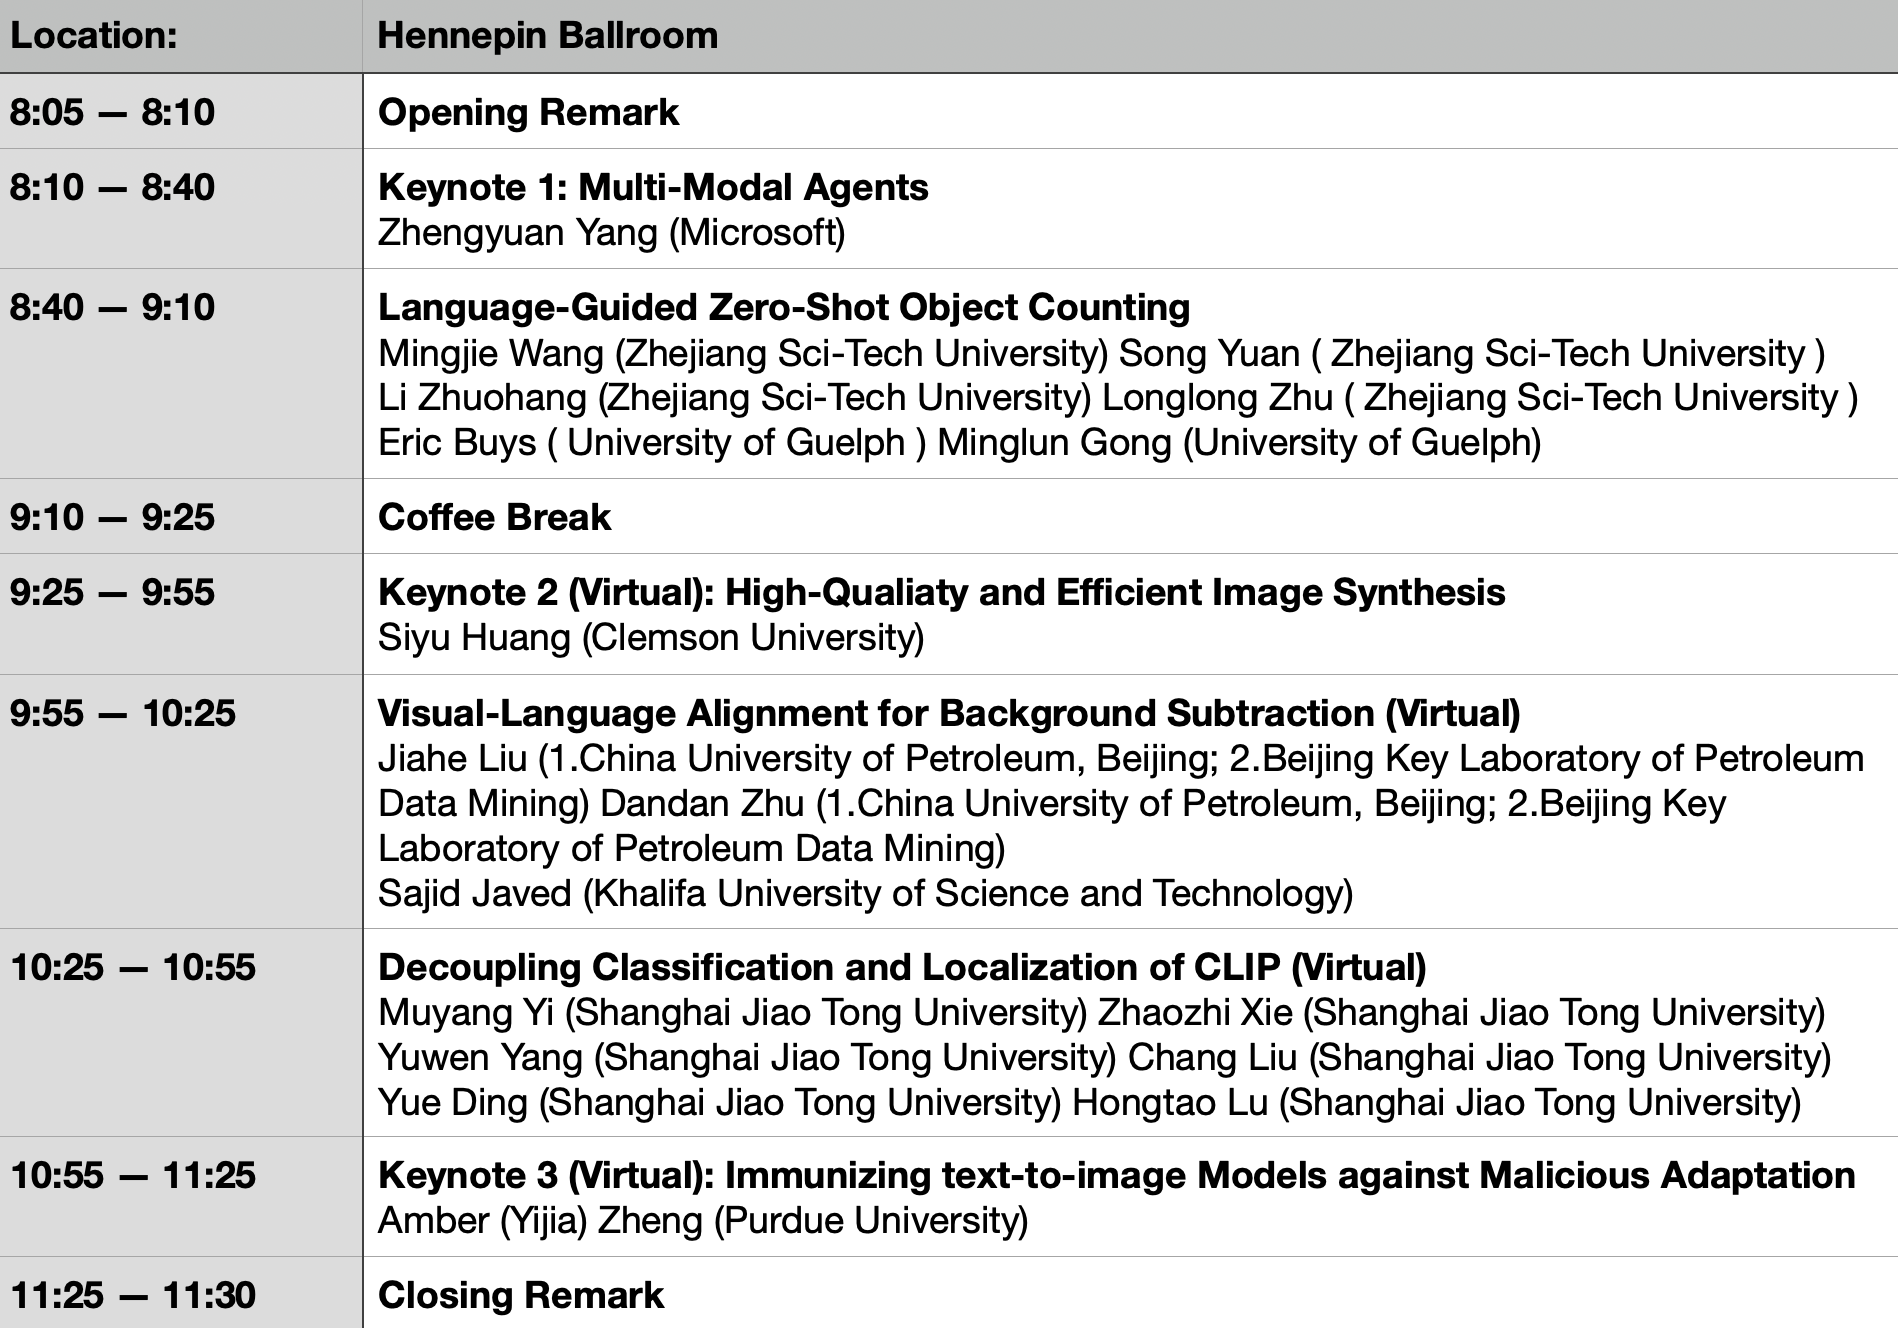
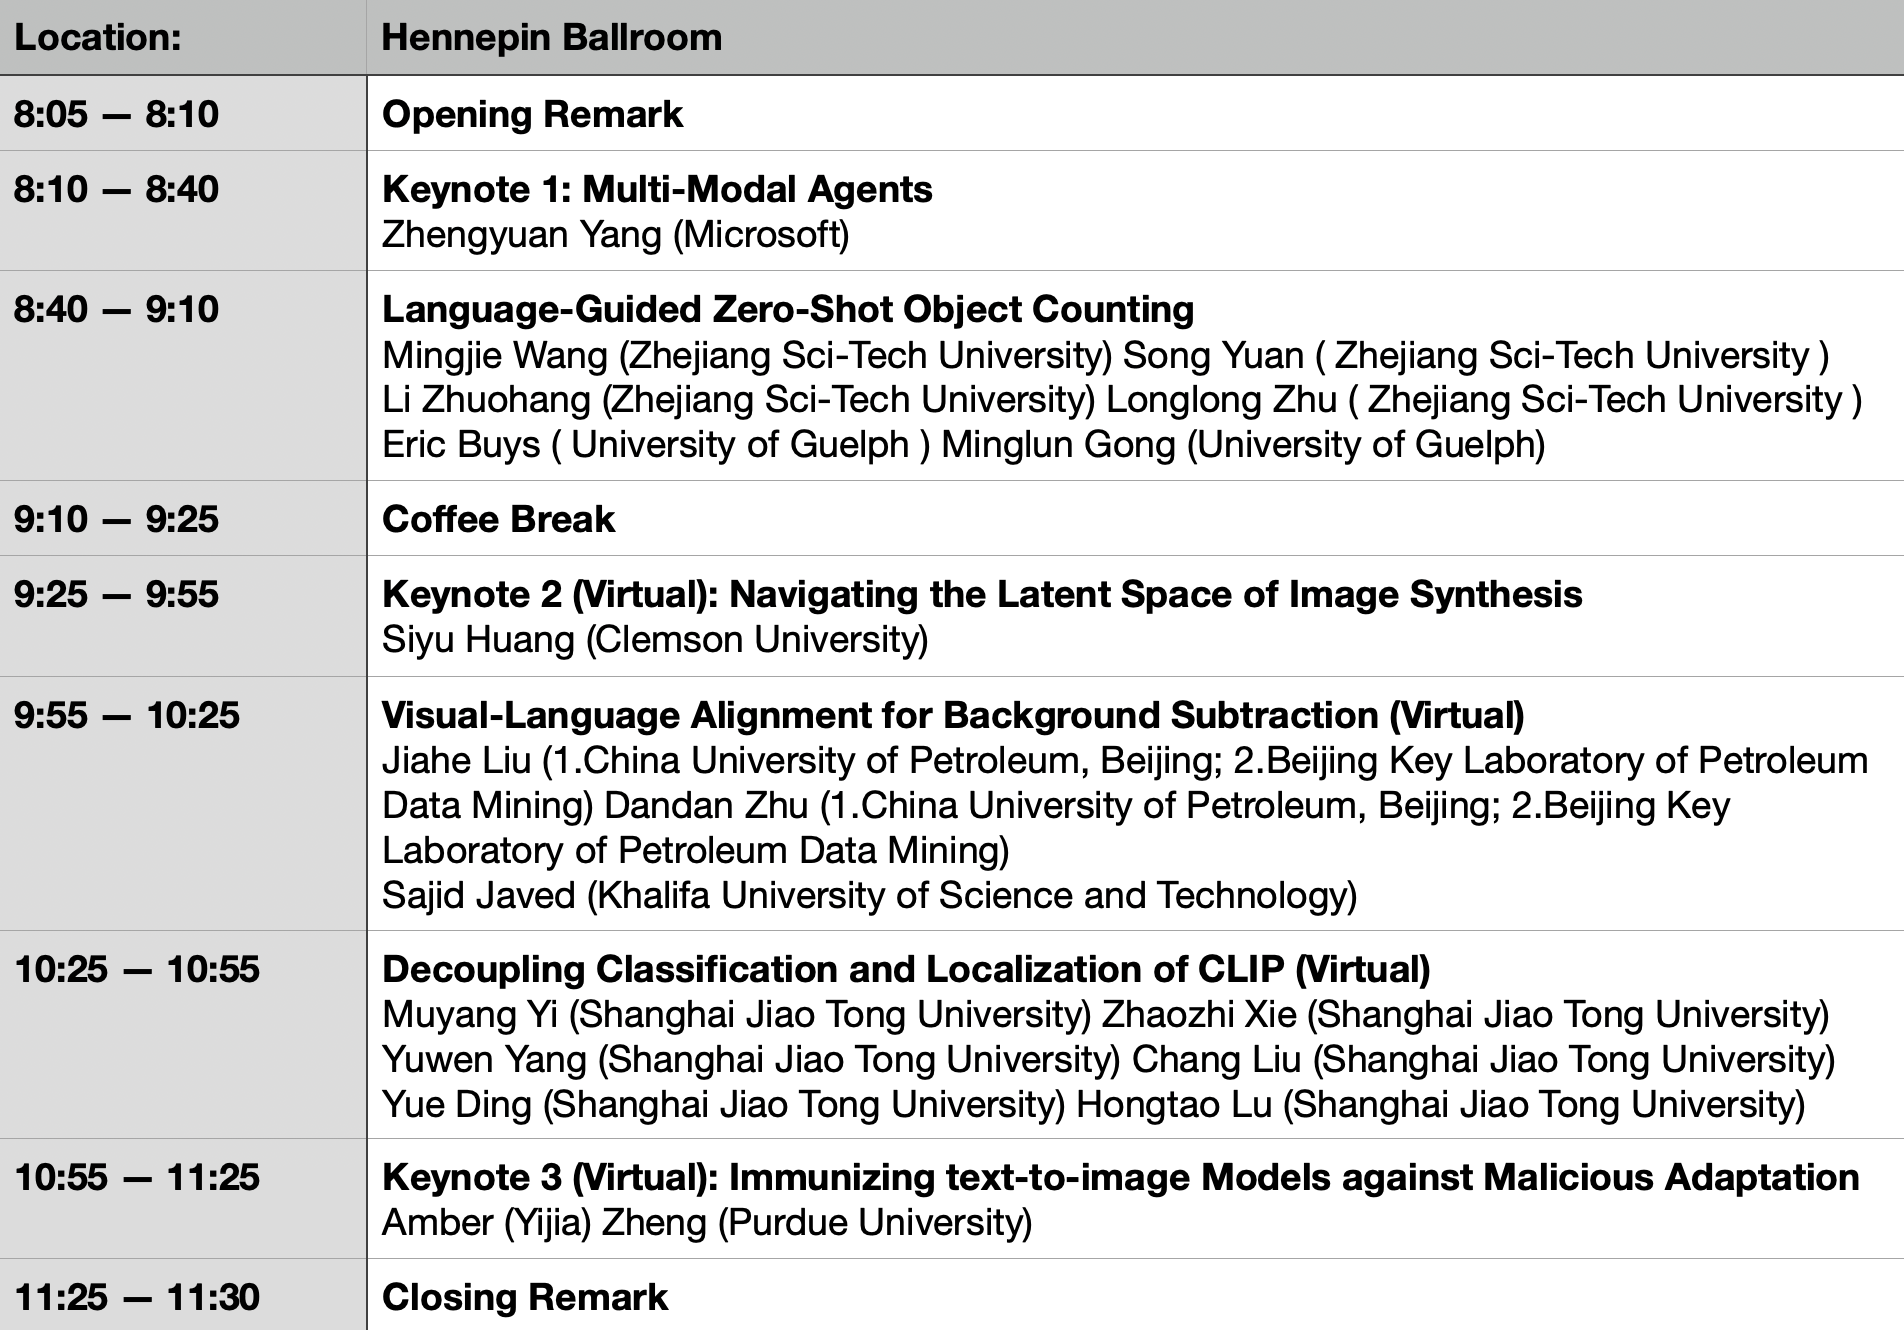
update keynote's title

diff --git a/index.html b/index.html
@@ -362,7 +362,7 @@ guided generation.
           </p>
 
           <p class="text-muted" style="text-align: left; font-weight: light; font-size: 18px">
-            High-Qualiaty and Efficient Image Synthesis
+            Navigating the Latent Space of Image Synthesis
           </p>
           <p class="text-muted" style="text-align: left; font-weight: bold; font-size: 24px;">
             Time:
